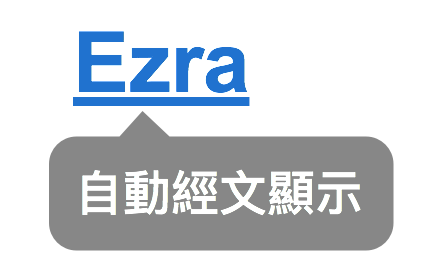
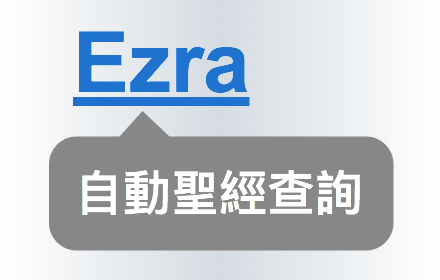
update descriptions

Changed region(s): [[0.2659, 0.0, 0.7091, 0.4857], [0.3841, 0.6, 0.8273, 0.7714], [0.2659, 0.8857, 0.7091, 1.0]]

diff --git a/docs/_layouts/index.html b/docs/_layouts/index.html
@@ -3,7 +3,7 @@
 
 <head>
   <meta charset="UTF-8">
-  <title>Ezra 自動經文顯示</title>
+  <title>Ezra 自動聖經查詢</title>
   <meta name="viewport" content="width=device-width, initial-scale=1">
   <link rel="stylesheet" type="text/css" href="stylesheets/normalize.css" media="screen">
   <link href='https://fonts.googleapis.com/css?family=Open+Sans:400,700' rel='stylesheet' type='text/css'>
@@ -14,9 +14,9 @@
 <body>
   <section class="page-header">
     <h1 class="project-name">Ezra</h1>
-    <h2 class="project-tagline">自動經文顯示</h2>
+    <h2 class="project-tagline">自動聖經查詢</h2>
     <a href="https://kenhung.github.io/Ezra/#web-widget" class="btn">Web Widget</a>
-    <a href="https://chrome.google.com/webstore/detail/ezra-%E5%8D%B3%E6%99%82%E8%81%96%E7%B6%93%E6%9F%A5%E8%A8%BD/malpgijpleaapnkjihoacpbkkodkmjgg?hl=zh-TW&gl=HK" class="btn">Chrome Extension</a>
+    <a href="https://chrome.google.com/webstore/detail/ezra-%E5%8D%B3%E6%99%82%E8%81%96%E7%B6%93%E6%9F%A5%E8%A8%BD/malpgijpleaapnkjihoacpbkkodkmjgg?hl=zh-TW&gl=HK" class="btn">Chrome擴充功能</a>
     <a href="https://github.com/KenHung/Ezra" class="btn">View on GitHub</a>
   </section>
 
@@ -28,8 +28,8 @@
     </footer>
   </section>
 
-	<script src="https://cdn.rawgit.com/KenHung/Ezra/1.5/ezra.js"></script>
-  <link href="https://cdn.rawgit.com/KenHung/Ezra/1.5/ezra-style.css" rel="stylesheet" type="text/css" />
+	<script src="https://cdn.rawgit.com/KenHung/Ezra/1.8/ezra.js"></script>
+  <link href="https://cdn.rawgit.com/KenHung/Ezra/1.8/ezra-style.css" rel="stylesheet" type="text/css" />
   <script>
     ezraLinkifier.linkify(document.body);
   </script>
